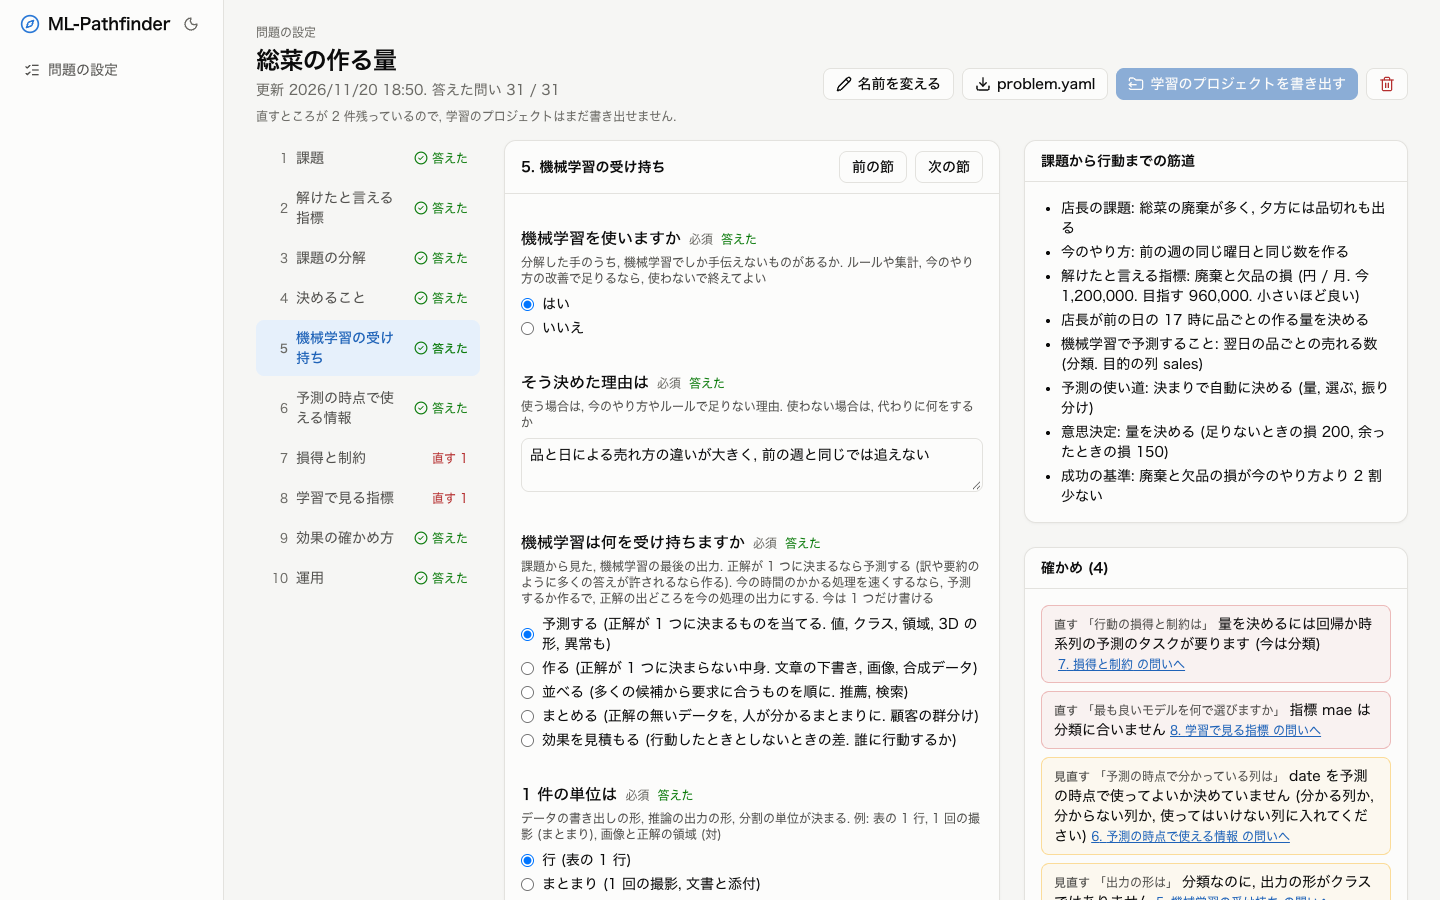
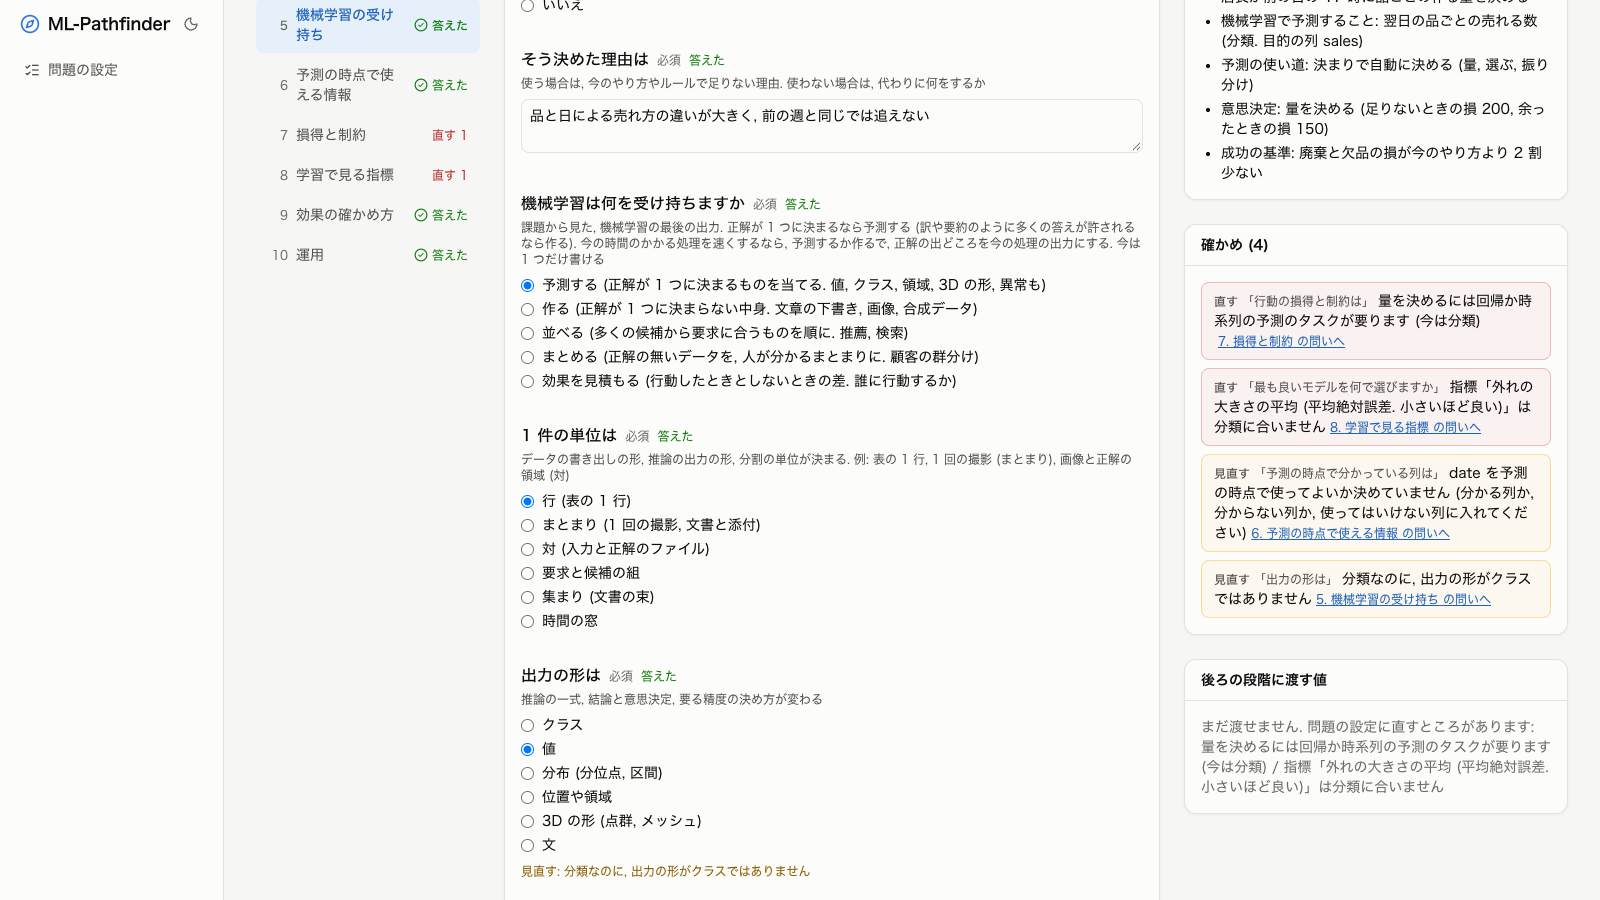
README をできることの目線で書き直し, 画面の例を撮り直す (#70)

diff --git a/frontend/e2e/screens.ts b/frontend/e2e/screens.ts
@@ -1,0 +1,202 @@
+/// <reference lib="dom" />
+/// <reference lib="dom.iterable" />
+// README の画面の例 (docs/images/*.png) を撮る (CI では使わない).
+// 先に pnpm build をして, 別の端末で bash e2e/screens.sh を起動しておき,
+// frontend で node e2e/screens.ts を実行する
+import { resolve } from 'node:path'
+
+import { chromium, expect, type Page } from '@playwright/test'
+
+const port = Number(process.env.SCREENS_PORT ?? 8796)
+const base = `http://127.0.0.1:${port}`
+const home = resolve('e2e/.screens/home')
+const out = resolve('../docs/images')
+
+/** 画面に出る作り物のホームの場所を ~ で示す (手元の場所を写さない) */
+function hideHome(prefix: string) {
+  const swap = (text: string) => text.split(prefix).join('~')
+  const run = () => {
+    const walker = document.createTreeWalker(document.body, NodeFilter.SHOW_TEXT)
+    for (let node = walker.nextNode(); node; node = walker.nextNode())
+      if (node.nodeValue?.includes(prefix)) node.nodeValue = swap(node.nodeValue)
+    for (const input of document.querySelectorAll('input'))
+      if (input.value.includes(prefix)) input.value = swap(input.value)
+  }
+  document.addEventListener('DOMContentLoaded', () => {
+    new MutationObserver(run).observe(document.body, {
+      subtree: true,
+      childList: true,
+      characterData: true,
+    })
+    setInterval(run, 100)
+  })
+}
+
+async function choose(page: Page, title: string, label: string | RegExp) {
+  await page.getByRole('radiogroup', { name: title, exact: true }).getByLabel(label).check()
+  await expect(page.getByText(`「${title}」を保存しました`)).toBeVisible()
+}
+
+async function write(page: Page, title: string, text: string) {
+  const box = page.getByRole('textbox', { name: title, exact: true })
+  await box.fill(text)
+  await box.blur()
+  await expect(page.getByText(`「${title}」を保存しました`)).toBeVisible()
+}
+
+async function section(page: Page, n: number) {
+  await page
+    .getByRole('navigation', { name: '問いの節' })
+    .getByRole('button', { name: new RegExp(`^${n}\\b`) })
+    .click()
+}
+
+async function shot(page: Page, name: string) {
+  // 保存の知らせが消え, 場所の置き換えが済むのを待つ
+  await page.waitForTimeout(4500)
+  await page.mouse.move(0, 0)
+  await page.screenshot({ path: `${out}/${name}.png` })
+}
+
+async function create(page: Page, name: string) {
+  await page.goto('/')
+  await page.getByLabel(/問題の名前/).fill(name)
+  await page.getByRole('button', { name: '作る', exact: true }).click()
+  await expect(page.getByRole('heading', { name })).toBeVisible()
+}
+
+async function openSample(page: Page, name: string) {
+  await page.goto('/')
+  await page.getByRole('button', { name }).click()
+  await expect(page.getByRole('heading', { name })).toBeVisible()
+}
+
+/** ホームの下のディレクトリを選ぶ対話で, 1 つを選んで入れる */
+async function pick(page: Page, entry: RegExp) {
+  await page.getByRole('button', { name: 'データを入れる' }).click()
+  const picker = page.getByRole('dialog')
+  await picker.getByLabel('パス').fill('~')
+  await picker.getByRole('button', { name: '移動' }).click()
+  await picker.getByRole('button', { name: entry }).click()
+  await picker.getByRole('button', { name: '選ぶ', exact: true }).click()
+  await expect(picker).toHaveCount(0)
+}
+
+async function answerApi(page: Page, answers: [string, unknown][]) {
+  const id = new URL(page.url()).pathname.split('/').pop() ?? ''
+  for (const [key, value] of answers) {
+    const response = await page.request.put(`/api/problems/${id}/answers`, {
+      data: { id: key, value },
+    })
+    if (!response.ok()) throw new Error(`${key}: ${response.status()}`)
+  }
+  await page.reload()
+}
+
+const browser = await chromium.launch({ channel: 'chrome' })
+const context = await browser.newContext({
+  baseURL: base,
+  viewport: { width: 1600, height: 900 },
+  colorScheme: 'light',
+})
+await context.addInitScript(hideHome, home)
+const page = await context.newPage()
+await page.goto('/api/auth?token=screens-token')
+
+// 見本 2 つと, 画面で答える問題 (売れる数の予測, 腕の制御, 撮影から形の点群)
+await openSample(page, '解約の引き止め')
+await section(page, 7)
+await shot(page, 'decision')
+
+await openSample(page, '総菜の作る量')
+await shot(page, 'problem')
+await section(page, 5)
+await page.getByRole('radio', { name: /分類/ }).check()
+await expect(page.getByRole('list', { name: '確かめ', exact: true })).toContainText(
+  '量を決めるには',
+)
+await page
+  .getByRole('list', { name: '確かめ', exact: true })
+  .evaluate((list) => list.scrollIntoView({ block: 'center' }))
+await shot(page, 'conflict')
+await page.getByRole('radio', { name: /時系列の予測/ }).check()
+await expect(page.getByText('食い違いや足りない答えはありません.')).toBeVisible()
+await page.getByRole('button', { name: '学習のプロジェクトを書き出す' }).click()
+const dialog = page.getByRole('dialog')
+await dialog.getByLabel('書き出すディレクトリ (無ければ作る)').fill('~/projects/souzai')
+await dialog.getByRole('button', { name: '書き出す' }).click()
+await expect(dialog.getByRole('status')).toContainText('train.py')
+await shot(page, 'export')
+await page.keyboard.press('Escape')
+
+await create(page, '売れる数の予測')
+await section(page, 5)
+await choose(page, '機械学習を使いますか', 'はい')
+await choose(page, '機械学習は何を受け持ちますか', /^予測する/)
+await choose(page, '正解 (出力) の種類は', /^表の列/)
+await pick(page, /^sales\.csv/)
+await expect(page.getByText(/240 行, 7 列/)).toBeVisible()
+await choose(page, 'どの種類の問題ですか', /^時系列の予測/)
+await page.getByText('データからの候補').first().scrollIntoViewIfNeeded()
+await shot(page, 'data_candidates')
+
+await create(page, '腕の制御')
+await section(page, 5)
+await choose(page, '機械学習を使いますか', 'はい')
+await choose(page, '機械学習は何を受け持ちますか', /^効果を見積もる/)
+await choose(page, '機械学習が, 続けて自分で行動を選びますか (方策)', 'はい')
+await choose(page, '行動の結果のデータは, どう集めますか', /^シミュレータで試して集める/)
+await choose(page, 'どのシミュレータを使いますか', /^MuJoCo/)
+await write(page, 'Gymnasium の環境の登録名は (あれば)', 'Hopper-v5')
+await page.getByRole('heading', { name: /学習の段階の準備/ }).scrollIntoViewIfNeeded()
+await shot(page, 'policy')
+
+await create(page, '撮影から形の点群')
+await answerApi(page, [
+  ['issue.owner', '設計の係'],
+  ['issue.pain', '形の計算に時間がかかる'],
+  ['issue.current', '毎回計算する'],
+  ['issue.kpi.name', '待ち時間'],
+  ['issue.kpi.unit', '分'],
+  ['issue.kpi.better', 'lower'],
+  ['decomposition', [{ cause: '毎回計算する', lever: '近似で省く', ml: true }]],
+  ['action.who', '設計の係'],
+  ['action.when', '計算の前'],
+  ['action.what', '計算を省くか'],
+  ['ml.reason', '計算の結果を早く近似したい'],
+  ['verification.method', 'backtest'],
+  ['verification.backtest', '過去の結果と比べる'],
+  ['verification.success', '待ち時間が半分'],
+  ['operation.review', '月に 1 回'],
+  ['operation.approver', '係の長'],
+  ['operation.stop', '外れが増えたら'],
+])
+await section(page, 5)
+await choose(page, '機械学習を使いますか', 'はい')
+await choose(page, '機械学習は何を受け持ちますか', /^予測する/)
+await choose(page, '1 件の単位は', /^まとまり/)
+await choose(page, '出力の形は', /^3D の形/)
+await choose(page, '正解は誰が, いつ, どう確定させますか (正解の出どころ)', /^今の処理の出力/)
+await write(page, '正解を作る今の処理の名前は', '今の計算')
+await choose(page, 'どう作りますか (作り方)', /^一から学習/)
+await choose(page, '正解 (出力) の種類は', /^点群/)
+await write(page, '何を出させますか', '形の点群')
+await write(page, '1 件は何ですか', '1 回の撮影')
+await write(page, '機械学習を使わない比べる相手は', '今の計算')
+await pick(page, /^clouds\s*データセット$/)
+await expect(page.getByRole('list', { name: '手元のデータは の確かめ' })).toContainText(
+  'ML-EDA の版 2 のデータセット',
+  { timeout: 20_000 },
+)
+await section(page, 8)
+await choose(page, '最も良いモデルを何で選びますか', /Chamfer/)
+await page
+  .getByRole('heading', { name: '後ろの段階に渡す値' })
+  .evaluate((heading) => heading.scrollIntoView({ block: 'start' }))
+await shot(page, 'point_cloud')
+
+await page.goto('/')
+await expect(page.getByRole('list', { name: '問題の設定' })).toContainText('撮影から形の点群')
+await shot(page, 'list')
+
+await browser.close()

diff --git a/README.md b/README.md
@@ -8,29 +8,32 @@
 
 <table>
   <tr>
-    <td><img src="docs/images/list.png" alt="問題の設定の一覧: 進み具合と後ろの段階に渡せるか. 新しく作る, 見本を開く, ファイルから取り込む"></td>
-    <td><img src="docs/images/conflict.png" alt="確かめ: タスクを分類に変えると, 量を決める行動との食い違いが「直す」に出て, 書き出せなくなる"></td>
+    <td><img src="docs/images/list.png" alt="問題の設定の一覧: 答えた問いの数と直すところ, 後ろの段階に渡せるか. 新しく作る, 見本を開く, ファイルから取り込む"></td>
+    <td><img src="docs/images/conflict.png" alt="確かめ: タスクを分類に変えると, 量を決める行動や指標との食い違いが「直す」に出て, 後ろの段階に渡せなくなる"></td>
   </tr>
   <tr>
-    <td><img src="docs/images/data_candidates.png" alt="手元のデータを入れると, 目的の列の問いの下にデータからの答えの候補が出る"></td>
+    <td><img src="docs/images/data_candidates.png" alt="手元の表を入れると, 列の名前が入り, 目的の列の問いの下にデータからの答えの候補が出る"></td>
     <td><img src="docs/images/decision.png" alt="損得と制約: 対象を選ぶ意思決定の値 (当たり 1 件の価値, 行動 1 件の費用, 効果, 件数の上限)"></td>
   </tr>
   <tr>
-    <td><img src="docs/images/point_cloud.png" alt="表の列でない受け持ち: 撮影から点群を予測する問題で, ML-EDA のデータセットを入れ, 受け持ちと正解の種類と出どころを後ろの段階に渡す"></td>
-    <td><img src="docs/images/export.png" alt="学習のプロジェクトの書き出し: ML-Found の骨組み (config, train.py, README, problem.yaml の写し) と次にすること"></td>
+    <td><img src="docs/images/point_cloud.png" alt="表の列でない受け持ち: 撮影から点群を予測する問題で ML-EDA のデータセットを入れ, 受け持ちと正解の種類と出どころ, 監視する指標を後ろの段階に渡す"></td>
+    <td><img src="docs/images/policy.png" alt="方策をシミュレータで学ぶ答えでは, 学習の段階の準備のカード (強化学習と MuJoCo) と, 方策を学ぶ環境が出る"></td>
   </tr>
 </table>
 
-画面の例は, アプリの見本 (架空の課題で答えを埋めた「総菜の作る量」と「解約の引き止め」) と, 画面で答えた架空の問題 (撮影から形の点群を作る, 売れる数の予測). 入れたデータは, 総菜の見本と同じ列の作り物の表と, ML-EDA の合成の撮影と点群から書き出した小さなデータセット. 置き場のパスは既定の `~/.ml-pathfinder` で, 書き出し先はホームの下で示している.
+![学習のプロジェクトの書き出し: ML-Found の骨組み (config, train.py, README, problem.yaml の写し) と, 書き出した場所の記録と次にすること](docs/images/export.png)
+
+画面の例は, アプリの見本 (架空の課題で答えを埋めた「総菜の作る量」と「解約の引き止め」) と, 画面で答えた架空の問題 (売れる数の予測, 腕の制御, 撮影から形の点群). 入れたデータは, 作り物の売上の表と, ML-EDA の合成の撮影と点群から書き出した小さなデータセット. 置き場は既定の `~/.ml-pathfinder` で, 書き出し先はホームの下で示している.
 
 ## できること
 
-- **問いに答える**: 課題, 解けたと言える指標, 課題の分解, 決めること, 機械学習の受け持ち, 予測の時点で使える情報, 損得と制約, 学習で見る指標, 効果の確かめ方, 運用の 10 の節. 今の答えで要らない問いは出ない
-- **確かめと筋道**: 答えるたびに, 答えどうしの食い違いと足りない答え (直す, 見直す, 知らせ) と, 課題から行動までの筋道が出る
-- **手元のデータ**: 表のファイルか ML-EDA のデータセットを入れると, 列の名前と答えの候補 (目的の列, 時刻の列, 漏れの疑いのある列など) と, データの確かめが出る
-- **後ろの段階に渡す値**: データの分析 (ML-Fathom), モデルの作成 (ML-CreateArchitecture), 学習 (ML-Found, ML-Dashboard), 推論 (ML-Provide) で選ぶ値を見る. 列の予測のほか, 画像の領域や点群などの受け持ちも渡せる
-- **学習のプロジェクトの書き出し**: 骨組みを組める答えがそろうと, ML-Found のプロジェクトの骨組み (config と学習のスクリプト) を書き出せる. 「直す」が残っていれば一覧を出し, 「それでも書き出す」を選んだときだけ書き出して, 骨組みの README に一覧を残す. 書き出した場所 (データセットとモデルの定義の置き場も) は問題の設定に記録し, 後ろの段階のアプリが写さずに使う
-- **見本と取り込み**: 架空の課題の見本 3 つ (機械学習を使わないで終える例も) と, 書き出した `problem.yaml` の取り込みと保存
+- **問題の設定を始める**: 課題の言葉で名前を付けて新しく作るか, 架空の課題の見本 3 つ (時系列の予測, 分類, 機械学習を使わないで終える例) の写しを開くか, 書き出した `problem.yaml` を取り込む. 一覧で答えた問いの数, 直すところの数, 後ろの段階に渡せるかが分かる
+- **問いに答える**: 課題, 解けたと言える指標, 課題の分解, 決めること, 機械学習の受け持ち, 予測の時点で使える情報, 損得と制約, 学習で見る指標, 効果の確かめ方, 運用の 10 の節. 今の答えで要らない問いは出ない. 機械学習が要らないと答えれば, そこで終える
+- **受け持ちを選ぶ**: 予測する, 作る, 並べる, まとめる, 効果を見積もるから選び, 表の列のほか, 画像の領域, 点群, 画像の生成, 続けて行動を選ぶ方策 (強化学習) も扱う. 強化学習やシミュレータが要る答えでは, 学習の段階で入れるものを「学習の段階の準備」のカードで知らせる
+- **確かめと筋道**: 答えるたびに, 答えどうしの食い違いと足りない答え (直す, 見直す, 知らせ) と, 課題から行動までの筋道が出る. 確かめから問いへ移って直せる
+- **手元のデータ**: 表のファイルか ML-EDA のデータセットを入れると, 列の名前と答えの候補 (目的の列, 時刻の列, 漏れの疑いのある列など) と, データの確かめが出る. 候補を押すと答えになる
+- **後ろの段階に渡す値**: データの分析 (ML-Fathom), モデルの作成 (ML-CreateArchitecture), 学習 (ML-Found, ML-Dashboard), 推論 (ML-Provide) で使う値 (目的の列, タスク, 分割, 使う列, 意思決定, 監視する指標, 方策を学ぶ環境など) を見る. 他のアプリ (ML-Fathom の書き戻しなど) が問題の設定を書き換えると読み直す
+- **学習のプロジェクトの書き出し**: 骨組みを組める答えがそろうと, ML-Found のプロジェクトの骨組み (config, 学習のスクリプト, README, `problem.yaml` の写し) と次にすることを書き出す. 「直す」が残っていれば一覧を出し, 「それでも書き出す」を選んだときだけ書き出して, 骨組みの README に一覧を残す. 書き出した場所 (データセットとモデルの定義の置き場も) は問題の設定に記録し, 後ろの段階のアプリが写さずに使う
 - ライトとダークの表示
 
 ## 使い方
@@ -67,6 +70,8 @@ make dev-frontend   # 画面 (別の端末で)
 make check          # lint, 型検査, テスト
 cd frontend && pnpm e2e   # 画面の通しのテスト
 ```
+
+README の画面の例 (`docs/images/`) は, `cd frontend && pnpm build` の後, `bash e2e/screens.sh` で見本のデータを置いて起動し, 別の端末で `node e2e/screens.ts` を実行して撮る.
 
 | ディレクトリ | 内容 |
 | --- | --- |
